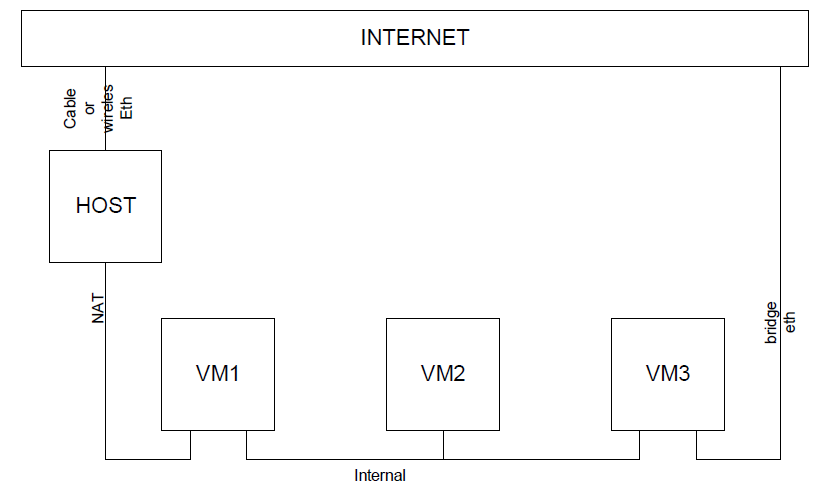
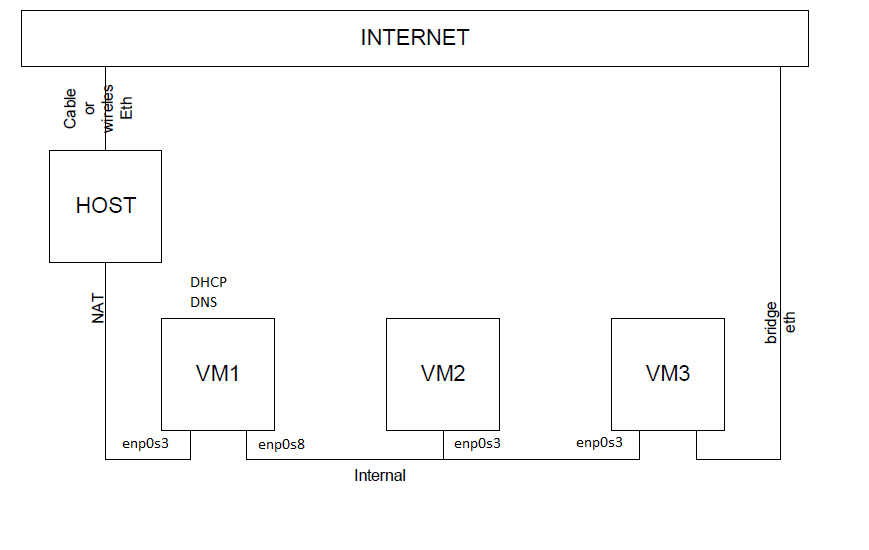
Task6.2 done

diff --git a/m6/task6.2/readme.md b/m6/task6.2/readme.md
@@ -1,13 +1,57 @@
 # Task 6.2 Configuring DHCP, DNS servers and dynamic routing using OSPF protocol  
 
-  1. Testing virtual network was configured as shown on the figure 1:  
-  ![Screen1](./task_images/Screenshot_1.png)  
-  VM1 has NAT and internal network connections, VM2 and VM3 – internal only interfaces.
+1. Testing virtual network was configured as shown on the figure 1:  
+![Screen1](./task_images/Screenshot_1.png)  
+VM1 has NAT and internal network connections, VM2 and VM3 – internal only interfaces.  
 
-  2. Installation and configuration of DHCP server on VM1.
-   - Using VBoxManage, DNSMASQ and ISC-DHSPSERVER). You should use at least 2 of them.
-3. Check VM2 and VM3 for obtaining network addresses from DHCP server.
-4. Using existed network for three VMs (from p.1) install and configure DNS server on VM1. (You can
-use DNSMASQ, BIND9 or something else).
-5. Check VM2 and VM3 for gaining access to DNS server (naming services).
-6. * Using the scheme which follows, configure dynamic routing using OSPF protocol.
+2. Installation and configuration of DHCP server on VM1.  
+###   **Case 1:** Using ISC-DHCP-SERVER:  
+ - **isc-dhcp-server** installation:  _**apt install isc-dhcp-server**_.  
+ - Editing config **/etc/default/isc-dhcp-server**:  
+ ![Screen2](./task_images/Screenshot_2.png)  
+ - Editing config **/etc/dhcp/dhcpd.conf** (previously copied to **/etc/dhcp/dhcpd.conf.backup**):  
+ ![Screen3](./task_images/Screenshot_3.png)  
+ - starting of **isc-dhcp-server**:  
+ ![Screen4](./task_images/Screenshot_4.png)  
+ - Change interface config on VM2 and VM3 to get network settings via dhcp and check result:  
+ ![Screen5](./task_images/Screenshot_5.png)  
+ ![Screen6](./task_images/Screenshot_6.png)  
+
+###   **Case 2:** Using DNSMASQ:  
+ - **dnsmasq** installation:  _**apt install dnsmasq**_.  
+ - Editing config **/etc/default/isc-dhcp-server**:  
+ ![Screen7](./task_images/Screenshot_7.png)  
+ - Starting **dnsmasq**:  
+ ![Screen8](./task_images/Screenshot_8.png)  
+
+3. Check VM2 and VM3 for obtaining network addresses from DHCP server:  
+ - Changing interface config on VM3 to get network settings via DHCP (on VM2 it was done earlier):  
+ ![Screen9](./task_images/Screenshot_9.png)  
+ - Checking results:  
+ ![Screen10](./task_images/Screenshot_10.png)  
+ ![Screen11](./task_images/Screenshot_11.png)  
+ ![Screen12](./task_images/Screenshot_12.png)  
+
+4. Using existed network for three VMs (from p.1) install and configure DNS server on VM1. (You can use DNSMASQ, BIND9 or something else).  
+ - **DNSMASQ** was used to configurate DNS:  
+ ![Screen13](./task_images/Screenshot_13.png)  
+ - Separate file resolv.dnsmasq.conf was created, because original symbolic link (_**resolv.conf -> ../run/systemd/resolve/stub-resolv.conf**_) becomes unworking after service **systemd-resolved** was disabled and OS reboot:  
+ ![Screen13a](./task_images/Screenshot_13a.png)  
+ - **DNSMASQ** working principles:  
+ ![Scheme](./task_images/dnsmasq-01.png)  
+
+5. Check VM2 and VM3 for gaining access to DNS server (naming services):  
+ - **VM2:**  
+ ![Screen14](./task_images/Screenshot_14.png)  
+ ![Screen15](./task_images/Screenshot_15.png)  
+ - **VM3:**  
+ ![Screen16](./task_images/Screenshot_16.png)  
+
+6. * Using the scheme which follows, configure dynamic routing using OSPF protocol:  
+ - Quagga installed, enabled. Ospfd enabled, all other services (protocols bgpd, ripd, isisd etc.) disabled.
+
+Used sources:
+1. https://admin812.ru/ustanovka-i-nastroyka-servera-isc-dhcp-v-ubuntu-debian.html
+2. https://mnorin.com/nastrojka-dnsmasq-dhcp-dns.html
+3. https://ixnfo.com/ustanovka-quagga-v-ubuntu-server-18.html
+4. https://ixnfo.com/nastrojka-ospf-v-quagga.html
